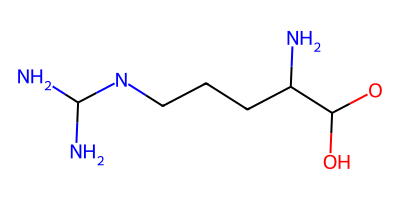
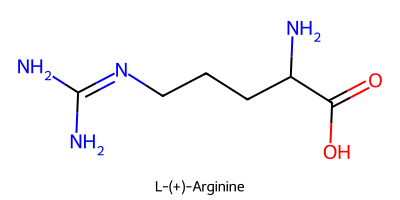
update readme.md file

Changed region(s): [[0.03, 0.09, 0.96, 0.87], [0.39, 0.9, 0.63, 0.99]]

diff --git a/README.md b/README.md
@@ -10,32 +10,35 @@ We will import the `polytop` library and confirm the version.
 ```python
 # Load sample ITPs
 import polytop
-from polytop.monomer import Monomer 
 from polytop.topology import Topology
+from polytop.junction import Junction
+from polytop.monomer import Monomer 
+from polytop import Polymer
 from polytop.visualize import Visualize
+from IPython.display import Image
+from IPython.core.display import HTML
 
 print(f"Polytop Version {polytop.__version__}")
 ```
 
-    Polytop Version 0.1 alpha
+    Polytop Version 1.0
     
 
-## Loading Sample ITP Files
+## Load topology from an ITP file
 
 First, we will load the ITP files for some molecules to use as monomers.  We'll use some amino acids to make a polypeptide.  We'll start by importing `Arginine` using the `Topology.from_ITP()` function. This function will return a `Topology` object that contains all of the information from the ITP file.  Note for display purposes we'll add a double bond manually between the carbon and the second oxygen in the terminal carboxyl group.
 
 
 ```python
-arg = Topology.from_ITP('tests/samples/arginine.itp')
+ARG = Topology.from_ITP('tests/data/arginine.itp')
 ```
 
-We can visualize the topology as a 2D structure using the Visualize class.
+We can visualize the topology as a 2D structure to make sure that this is the molecule we want to use.
 
 
 ```python
-Visualize(arg).create_2D_image('README_files/arginine.png',(400,200))
-from IPython.display import Image
-Image(filename='README_files/arginine.png') 
+Visualize(ARG).draw2D('tests/output/ARG.png',(400,200))
+Image(filename='tests/output/ARG.png') 
 ```
 
 
@@ -47,15 +50,12 @@ Image(filename='README_files/arginine.png')
 
 
 
-NB: ITP topologies do not contain information about bond ordering.  We can manually fix up any bond.
+Now we need to select the terminal amine and the terminal carboxyl group as polymerization junction points in this topology so we can define this topology as a monomer.  First we redraw the topology with explicit hydrogens visible and atom IDs displayed.
 
 
 ```python
-arg.get_bond('C11','O2').order = 2 # ITP files do not include bond orders
-arg.get_bond('C12','N4').order = 2
-Visualize(arg).create_2D_image('README_files/arginine.png',(400,200))
-from IPython.display import Image
-Image(filename='README_files/arginine.png')
+Visualize(ARG).draw2D('tests/output/ARG_unordered.png',(400,200),remove_explicit_H=False, show_atom_ID=True)
+Image(filename='tests/output/ARG_unordered.png') 
 ```
 
 
@@ -67,14 +67,13 @@ Image(filename='README_files/arginine.png')
 
 
 
-We can also infer bond orders from expected atom valencies and available bonds.  This is done by the Visualize.infer_bond_orders() function.
+The first step is to reorder the atom indicies to minimize the name space required for this mononmer (this is not strictly necessary, but it will make the atom IDs easier to read).  We can do this with the `Topology.reorder()` function.  This function will return a new `Topology` object with the atoms reordered.
 
 
 ```python
-arg = Topology.from_ITP('tests/samples/arginine.itp')
-Visualize(arg).infer_bond_orders().create_2D_image('README_files/arginine.png',(400,200))
-from IPython.display import Image
-Image(filename='README_files/arginine.png')
+ARG.auto_rename_atoms()
+Visualize(ARG).draw2D('tests/output/ARG_ordered.png',(400,200),remove_explicit_H=False, show_atom_ID=True)
+Image(filename='tests/output/ARG_ordered.png')
 ```
 
 
@@ -86,140 +85,138 @@ Image(filename='README_files/arginine.png')
 
 
 
+Now we can select the atoms that will be on either side of the polymerization junction points, and give each junction a name.  And finally display the monomer highlighting the junctions.
+
+
+```python
+ARG_N = ARG.junction('N1','H9').named('N')
+ARG_C = ARG.junction('C5','O1').named('C')
+ARG_monomer = Monomer(ARG, [ARG_N, ARG_C])
+Visualize.monomer(ARG_monomer).draw2D('tests/output/ARG_monomer.png',(400,200),highlight_junctions=True)
+Image(filename='tests/output/ARG_monomer.png')
+```
+
+
+    ---------------------------------------------------------------------------
+
+    AttributeError                            Traceback (most recent call last)
+
+    Input In [6], in <cell line: 1>()
+    ----> 1 ARG_N = ARG.junction('N1','H9').named('N')
+          2 ARG_C = ARG.junction('C5','O1').named('C')
+          3 ARG_monomer = Monomer(ARG, [ARG_N, ARG_C])
+    
+
+    File d:\khiron\polytop\polytop\topology.py:289, in Topology.junction(self, monomer_atom_name, residue_atom_name, name)
+        287 monomer_atom = self.get_atom(monomer_atom_name)
+        288 residue_atom = self.get_atom(residue_atom_name)
+    --> 289 return Junction(monomer_atom, residue_atom, name)
+    
+
+    File d:\khiron\polytop\polytop\junction.py:14, in Junction.__init__(self, monomer_atom, residue_atom, name)
+         12 def __init__(self, monomer_atom : Atom, residue_atom: Atom, name: str = None):
+         13     if name is None:
+    ---> 14         name = f"{monomer_atom.atom_name}-{residue_atom.atom_name}"
+         15     self.name = name
+         16     self.monomer_atom = monomer_atom
+    
+
+    AttributeError: 'NoneType' object has no attribute 'atom_name'
+
+
+
+```python
+
+```
+
 ## Loading a glutamine topology
 
 And we'll do the same with the second amino acid, glutamine
 
 
 ```python
-glu = Topology.from_ITP('tests/samples/glutamine.itp')
-Visualize(glu).infer_bond_orders().create_2D_image('README_files/glutamine.png',(400,200))
-
-from IPython.display import Image
-Image(filename='README_files/glutamine.png')
-```
-
-
-
-
-    
-![png](README_files/README_11_0.png)
-    
+GLN = Topology.from_ITP('tests/data/glutamine.itp')
+Visualize(GLN).draw2D('tests/output/GLN.png',(400,200))
+Visualize(GLN).draw2D('tests/output/GLN_unordered.png',(400,200),remove_explicit_H=False, show_atom_ID=True)
+GLN.auto_rename_atoms()
+Visualize(GLN).draw2D('tests/output/GLN_ordered.png',(400,200),remove_explicit_H=False, show_atom_ID=True)
+GLN_N = GLN.junction('N1','H6').named('N')
+GLN_C = GLN.junction('C4','O1').named('C')
+GLN_monomer = Monomer(ARG, [ARG_N, ARG_C])
+Visualize.monomer(GLN_monomer).draw2D('tests/output/GLN_monomer.png',(400,200),highlight_junctions=True)
 
 
+GLN_pipeline = ['tests/output/GLN.png','tests/output/GLN_unordered.png','tests/output/GLN_ordered.png','tests/output/GLN_monomer.png']
 
-# Convert a molecule topology to a monomer 
-
-A monomer is an element that can participate in the formation of a polymer.  A monomer is defined by a topology and a set of polymerization junctions (defined by start and end bonds).  The monomer has 3 potential topologies, a start  unit, a link unit, and an end unit.  Which variant will be used will be determined by the position in the polymer the unit occupies.  The start unit is used for the first monomer in the polymer, the end unit is used for the last monomer in the polymer, and the link unit is used for all other monomers. 
-
-
-```python
-arg = Topology.from_ITP('tests/samples/arginine.itp')
-start = arg.get_bond('N3','H20')
-end = arg.get_bond('C11','O1')
-arg_monomer = Monomer(arg,start,end)
-arg_monomer.save('tests/samples/arginine_monomer.json')
-
-glu=Topology.from_ITP('tests/samples/glutamine.itp')
-start = glu.get_bond('N1','H6')
-end = glu.get_bond('C4','O1')
-glu_monomer = Monomer(glu,start,end)
-glu_monomer.save('tests/samples/glutamine_monomer.json')
-
-Visualize(arg_monomer.topology).infer_bond_orders().create_2D_image('tests/samples/arginine.png',(400,200))
-Visualize(arg_monomer.LHS).infer_bond_orders().create_2D_image('tests/samples/arginine_LHS.png',(400,200))
-Visualize(arg_monomer.link).infer_bond_orders().create_2D_image('tests/samples/arginine_link.png',(400,200))
-Visualize(arg_monomer.RHS).infer_bond_orders().create_2D_image('tests/samples/arginine_RHS.png',(400,200))
-
-Visualize(glu_monomer.topology).infer_bond_orders().create_2D_image('tests/samples/glutamine.png',(400,200))
-Visualize(glu_monomer.LHS).infer_bond_orders().create_2D_image('tests/samples/glutamine_LHS.png',(400,200))
-Visualize(glu_monomer.link).infer_bond_orders().create_2D_image('tests/samples/glutamine_link.png',(400,200))
-Visualize(glu_monomer.RHS).infer_bond_orders().create_2D_image('tests/samples/glutamine_RHS.png',(400,200))
-
-from IPython.display import Image
-from IPython.core.display import HTML
-html = '<h1>Arginine</h1>'
-html += f'<figure><img src="tests/samples/arginine.png" style="margin:0 10px" width="300"><figcaption>Arginine molecule</figcaption></figure>'
-
-arginines = ['arginine_LHS.png','arginine_link.png', 'arginine_RHS.png']
+html = '<h1>Glutamine pipeline</h1>'
 html += '<div style="display:flex">'
-for image in arginines:
-    html += f'<div style="display:inline-flex"><figure><img src="tests/samples/{image}" style="margin:0 10px" width="300"><figcaption>{image}</figcaption></figure></div>'
-html += '</div>'
-
-html += '<h1>Glutamine</h1>'
-html += f'<figure><img src="tests/samples/glutamine.png" style="margin:0 10px" width="300"><figcaption>Glutamine molecule</figcaption></figure>'
-
-glutamines = ['glutamine_LHS.png','glutamine_link.png', 'glutamine_RHS.png']
-html += '<div style="display:flex">'
-for image in glutamines:
-    html += f'<div style="display:inline-flex"><figure><img src="tests/samples/{image}" style="margin:0 10px" width="300"><figcaption>{image}</figcaption></figure></div>'
+for image in GLN_pipeline:
+    html += f'<div style="display:inline-flex"><figure><img src="{image}" style="margin:0 10px" width="300"><figcaption>{image}</figcaption></figure></div>'
 html += '</div>'
 
 display(HTML(html))
+```
+
+# Construct a polymer from a set of monomers
+
+ 
+
+
+```python
+dipeptide = Polymer(ARG_monomer)
+dipeptide.extend(GLN_monomer, from_junction_name = "C", to_junction_name = "N")
+Visualize.polymer(dipeptide).draw2D('tests/output/dipeptide.png',(400,200))
 
 ```
 
+# More complex polymers
 
-<h1>Arginine</h1><figure><img src="tests/samples/arginine.png" style="margin:0 10px" width="300"><figcaption>Arginine molecule</figcaption></figure><div style="display:flex"><div style="display:inline-flex"><figure><img src="tests/samples/arginine_LHS.png" style="margin:0 10px" width="300"><figcaption>arginine_LHS.png</figcaption></figure></div><div style="display:inline-flex"><figure><img src="tests/samples/arginine_link.png" style="margin:0 10px" width="300"><figcaption>arginine_link.png</figcaption></figure></div><div style="display:inline-flex"><figure><img src="tests/samples/arginine_RHS.png" style="margin:0 10px" width="300"><figcaption>arginine_RHS.png</figcaption></figure></div></div><h1>Glutamine</h1><figure><img src="tests/samples/glutamine.png" style="margin:0 10px" width="300"><figcaption>Glutamine molecule</figcaption></figure><div style="display:flex"><div style="display:inline-flex"><figure><img src="tests/samples/glutamine_LHS.png" style="margin:0 10px" width="300"><figcaption>glutamine_LHS.png</figcaption></figure></div><div style="display:inline-flex"><figure><img src="tests/samples/glutamine_link.png" style="margin:0 10px" width="300"><figcaption>glutamine_link.png</figcaption></figure></div><div style="display:inline-flex"><figure><img src="tests/samples/glutamine_RHS.png" style="margin:0 10px" width="300"><figcaption>glutamine_RHS.png</figcaption></figure></div></div>
+We'll model a simple form of glycogen (skipping the glycogenin protein nucleating the **C** chain in the center of the polymer), which is a complex polymer of glucose molecules.  https://chem.libretexts.org/Bookshelves/Biological_Chemistry/Supplemental_Modules_(Biological_Chemistry)/Carbohydrates/Polysaccharides/Glycogen
 
-
-# Convert monomers + distribution to a Polymer
-
-Once you have multiple molecules configured as monomers you can then polymerize them.  The polymer will be extended with a specific number of monomer units (here 12), with a specific random uniform distribution (20% arginine / 80% glutamine), and optionally using a random seed (42) and optionally a specific start monomer and end monomer.  The polymer can be saved to a .json file 
+The structure is characterized by chains 8-10 units long of glucose molecules linked by alpha-1,4-glycosidic bonds, with branches linked by alpha-1,6-glycosidic bonds.  There are three category of chains, **A**, **B**, and **C**, they are 8-10 monomers long, at the end of each chain is a glucose monomer with 3 branch points. There is one **C** chain at the center of the polymer.  For this simplification that **C** chain, will be branch to 2 **B** chains, and each **B** will branch to 4  **A** chains.
 
 
 ```python
 
-from polytop.polymer import Polymer
+```
 
-arg = Topology.from_ITP('tests/samples/arginine.itp')
-start = arg.get_bond('N3','H20')
-end = arg.get_bond('C11','O1')
-arg_monomer = Monomer(arg,start,end)
+# Load monomer
 
-glu=Topology.from_ITP('tests/samples/glutamine.itp')
-start = glu.get_bond('C4','O1')
-end = glu.get_bond('N1','H6')
-glu_monomer = Monomer(glu,start,end)
+Let's start with a simple molecule of glucose, and only one of the isomers (the cyclic form), but it would be possible to model others such as the open chain form as well, and to distribute randomly among multiple  given an experimentally derived distribution.  We'll create 2 different monomers, one with just the 1,4-glycosidic bond, and one with the the 1,4-glycosidic bond and a 1,6-glycosidic bond.
 
-polymer = Polymer([arg_monomer,glu_monomer],[0,1], [20,80], num_monomers= 12, seed= 42, start_monomer= arg_monomer)
-polymer.save_to_file('tests/samples/polymer.json')
-polymer_topology = polymer.get_topology()
 
-Visualize(polymer_topology).infer_bond_orders().create_2D_image('tests/samples/polymer.png',(400,200))
-from IPython.display import Image
-Image(filename='README_files/polymer.png')
+```python
+GLU = Topology.from_ITP('tests/data/glucose.itp')
+Visualize(GLU).draw2D('tests/output/GLU.png',(400,200))
+Visualize(GLU).draw2D('tests/output/GLU_unordered.png',(400,200),remove_explicit_H=False, show_atom_ID=True)
+GLU.auto_rename_atoms()
+Visualize(GLU).draw2D('tests/output/GLU_ordered.png',(400,200),remove_explicit_H=False, show_atom_ID=True)
+GLU_1 = GLU.junction('C1','O3').named('1')
+GLU_4 = GLU.junction('C4','HC3').named('4')
+GLU_6 = GLU.junction('C6','HC11').named('6')
+
+GLU_monomer = Monomer(GLU, [GLU_1, GLU_4, GLU_6])
+Visualize.monomer(GLU_monomer).draw2D('tests/output/GLU_monomer.png',(400,200),highlight_junctions=True)
+
+
+GLU_pipeline = ['tests/output/GLU.png','tests/output/GLU_unordered.png','tests/output/GLU_ordered.png','tests/output/GLU_monomer.png']
+
+html = '<h1>Glucose pipeline</h1>'
+html += '<div style="display:flex">'
+for image in GLU_pipeline:
+    html += f'<div style="display:inline-flex"><figure><img src="{image}" style="margin:0 10px" width="300"><figcaption>{image}</figcaption></figure></div>'
+html += '</div>'
+
+display(HTML(html))
 ```
 
 
-    ---------------------------------------------------------------------------
-
-    ValueError                                Traceback (most recent call last)
-
-    c:\Users\Richard\OneDrive - Australian National University\Polytop\polytop\README.ipynb Cell 16 in <cell line: 13>()
-         <a href='vscode-notebook-cell:/c%3A/Users/Richard/OneDrive%20-%20Australian%20National%20University/Polytop/polytop/README.ipynb#X21sZmlsZQ%3D%3D?line=9'>10</a> end = glu.get_bond('N1','H6')
-         <a href='vscode-notebook-cell:/c%3A/Users/Richard/OneDrive%20-%20Australian%20National%20University/Polytop/polytop/README.ipynb#X21sZmlsZQ%3D%3D?line=10'>11</a> glu_monomer = Monomer(glu,start,end)
-    ---> <a href='vscode-notebook-cell:/c%3A/Users/Richard/OneDrive%20-%20Australian%20National%20University/Polytop/polytop/README.ipynb#X21sZmlsZQ%3D%3D?line=12'>13</a> polymer = Polymer([arg_monomer,glu_monomer],[0,1], [20,80], num_monomers= 12, seed= 42, start_monomer= arg_monomer)
-         <a href='vscode-notebook-cell:/c%3A/Users/Richard/OneDrive%20-%20Australian%20National%20University/Polytop/polytop/README.ipynb#X21sZmlsZQ%3D%3D?line=13'>14</a> polymer.save_to_file('tests/samples/polymer.json')
-         <a href='vscode-notebook-cell:/c%3A/Users/Richard/OneDrive%20-%20Australian%20National%20University/Polytop/polytop/README.ipynb#X21sZmlsZQ%3D%3D?line=14'>15</a> polymer_topology = polymer.get_topology()
-    
-
-    File c:\Users\Richard\OneDrive - Australian National University\Polytop\polytop\polytop\polymer.py:28, in Polymer.__init__(self, monomers, join_atoms_named, distribution, num_monomers, seed, start_monomer, end_monomer)
-         26 for monomer in self.monomers:
-         27     if monomer.link.get_atom(self.join_a) is None and monomer.link.get_atom(self.join_b) is None:
-    ---> 28         raise ValueError(f'All monomer must have virtual nodes named {self.join_a} and {self.join_b}')
-         29 self.distribution = distribution
-         30 self.seed = seed
-    
-
-    ValueError: All monomer must have virtual nodes named 0 and 1
+<h1>Glucose pipeline</h1><div style="display:flex"><div style="display:inline-flex"><figure><img src="tests/output/GLU.png" style="margin:0 10px" width="300"><figcaption>tests/output/GLU.png</figcaption></figure></div><div style="display:inline-flex"><figure><img src="tests/output/GLU_unordered.png" style="margin:0 10px" width="300"><figcaption>tests/output/GLU_unordered.png</figcaption></figure></div><div style="display:inline-flex"><figure><img src="tests/output/GLU_ordered.png" style="margin:0 10px" width="300"><figcaption>tests/output/GLU_ordered.png</figcaption></figure></div><div style="display:inline-flex"><figure><img src="tests/output/GLU_monomer.png" style="margin:0 10px" width="300"><figcaption>tests/output/GLU_monomer.png</figcaption></figure></div></div>
 
 
-To convert this notebook to markdown, run the following command: 
-    ```
-    jupyter nbconvert README.ipynb --to markdown
-    ```
+# Make polymer chains
+
+Glucose in glycogen 
 
 
 ```python
